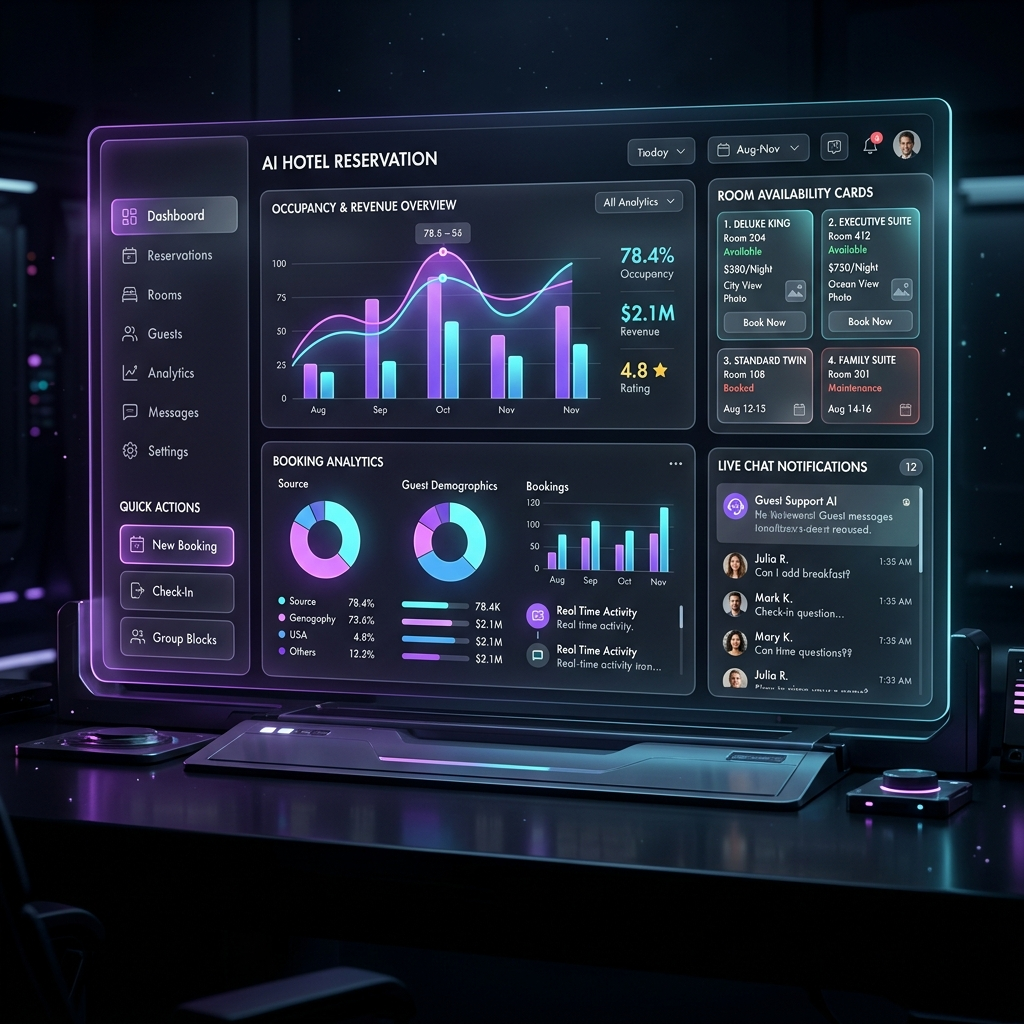
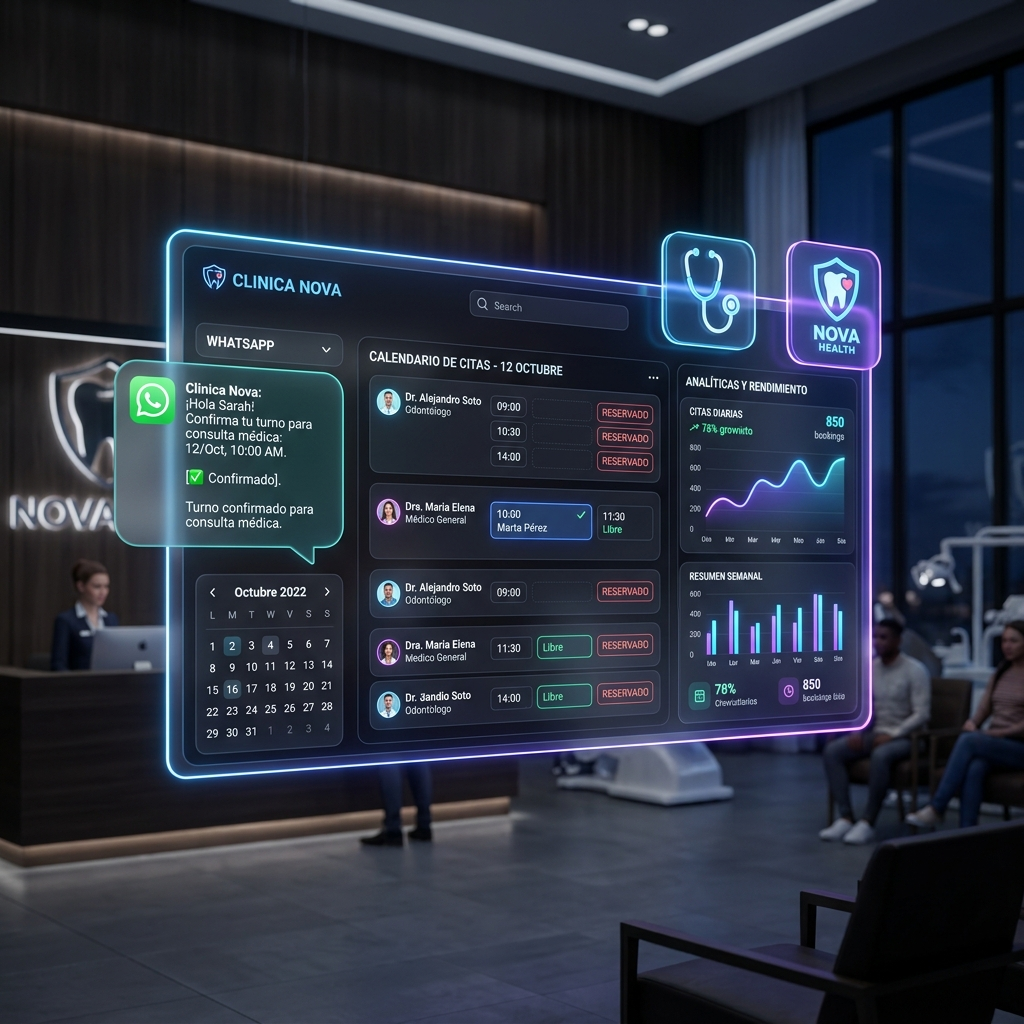
Actualizar imagen del hero e icono de WhatsApp con contexto clinico

diff --git a/index.html b/index.html
@@ -51,7 +51,6 @@
             </div>
         </div>
         <div class="hero-visual fade-up delay-1">
-            <!-- TODO: reemplazar por imagen que muestre contexto de clínica/consultorio (recepción, agenda de turnos) en vez del dashboard genérico -->
             <div class="glass-panel main-panel">
                 <img src="images/hero.png" alt="Agente de IA agendando turnos para clínica" class="hero-img">
             </div>
@@ -66,7 +65,6 @@
         </div>
         <div class="services-grid">
             <div class="service-card glass-panel fade-up">
-                <!-- TODO: reemplazar ícono/imagen de WhatsApp genérico por uno que refleje contexto de clínica/consultorio -->
                 <div class="icon-wrapper">
                     <img src="images/icon-whatsapp.png" alt="Agente de Agendamiento IA">
                 </div>
